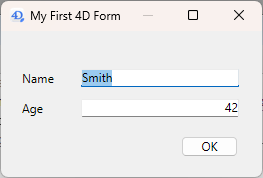
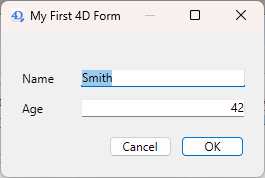
after proofreads

diff --git a/docs/commands/theme/System_Documents.md b/docs/commands/theme/System_Documents.md
@@ -41,3 +41,85 @@ slug: /commands/theme/System-Documents
 |[<!-- INCLUDE #_command_.TEXT TO DOCUMENT.Syntax -->](../../commands/text-to-document)<br/>|
 |[<!-- INCLUDE #_command_.VOLUME ATTRIBUTES.Syntax -->](../../commands/volume-attributes)<br/>|
 |[<!-- INCLUDE #_command_.VOLUME LIST.Syntax -->](../../commands/volume-list)<br/>|
+
+
+:::info Compatibility
+
+Legacy commands from this theme can usually be usefully replaced by commands of the [*File and Folder*](./File_and_Folder.md) theme and their associated [File](../../API/FileClass.md), [Folder](../../API/FolderClass.md), [ZipFile](../../API/ZipFileClass.md) and [ZipFolder](../../API/ZipFolderClass.md) classes, allowing you to handle files and folders as objects. 
+
+:::
+
+
+## Document reference number  
+
+You open a document with the [`Open document`](../../commands/open-document), [`Create document`](../../commands/create-document) and [`Append document`](../../commands/append-document) commands. Once a document is open, you can read and write characters from and to the document using commands such as [`RECEIVE PACKET`](../../commands/receive-packet) and [`SEND PACKET`](../../commands/send-packet). When you are finished with the document, you usually close it using the `CLOSE DOCUMENT` command.
+
+All open documents returned by these commands are referred to using a **document reference number** (*DocRef*). A *DocRef* uniquely identifies an open document. It is formally an expression of the **Time** type. All commands working with open documents expect *DocRef* as a parameter. If you pass an incorrect *DocRef* to one of these commands, a file manager error occurs.
+
+A document can be opened in **read/write** mode by only one process at a time. In **read-only** mode, one process can open several documents, several processes can open multiple documents, you can open the same document as many times as necessary, but you cannot open the same document in read/write mode twice at a time. The `Create document` and `Append document` commands automatically open documents in read/write mode. Only the `Open document` command lets you choose the opening mode. 
+
+:::note
+
+When it is called from a [preemptive process](../../Develop/preemptive.md), a *DocRef* reference can only be used from this preemptive process. When it is called from a cooperative process, a *DocRef* reference can be used from any other cooperative process.
+
+:::
+
+
+## The Document system variable  
+
+`Open document`, `Create document`, `Append document` and `Select document` enable you to access a document using the standard Open or Save file dialog boxes. When you access a document through a standard dialog, 4D returns the full pathname of the document in the [`Document` system variable](../../Concepts/variables.md#system-variables). This system variable has to be distinguished from the *document* parameter that appears in the parameter list of the commands.
+
+
+
+## Absolute or relative pathname  
+
+Most of the routines of this section accept document names, relative pathnames or absolute pathnames:
+
+Relative pathnames define a location with respect to a folder located on disk. Passing only a document name is considered as using a relative pathname. In 4D, a relative pathname is usually expressed with respect to the database folder, i.e. the folder containing the structure file. Relative pathnames are especially useful when deploying applications in heterogenous environments.
+Absolute pathnames define a location with respect to the root of the volume and so they do not depend on the current location of the database folder.
+To determine whether a pathname passed to a command must be interpreted as absolute or relative, 4D applies a specific algorithm on each platform.
+
+Windows  
+If the parameter contains only two characters and if the second one is a ':',
+    or if the text contains ':' and '\' as the second and third character,
+    or if the text starts with "\\",
+then the pathname is absolute.       
+
+In all other cases, the pathname is relative.
+
+Examples with the CREATE FOLDER command:
+
+ CREATE FOLDER("lundi") // relative path
+ CREATE FOLDER("\Monday") // relative path
+ CREATE FOLDER("\Monday\Tuesday") // relative path
+ CREATE FOLDER("c:") // absolute path
+ CREATE FOLDER("d:\Monday") // absolute path
+ CREATE FOLDER("\\srv-Internal\temp") // absolute path
+
+macOS  
+If the text starts with a folder separator ':',
+    or if does not contain any,
+then the path is relative.
+
+In all other cases, it is absolute.
+
+Examples with the CREATE FOLDER command:
+
+ CREATE FOLDER("Monday") // relative path
+ CREATE FOLDER("macintosh hd:") // absolute path
+ CREATE FOLDER("Monday:Tuesday") // absolute path (a volume must be called Monday)
+ CREATE FOLDER(":Monday:Tuesday") // relative path
+
+:::note
+
+See also [**Absolute and relative pathnames** in the Concepts section](../../Concepts/paths.md#absolute-and-relative-pathnames).
+
+:::
+
+## Extracting pathname contents  
+
+You can handle pathname contents using the Path to object and Object to path commands. In particular, using these commands, you can extract from a pathname:
+
+a file name,
+the parent folder path,
+the file or folder extension.

diff --git a/docs/FormEditor/forms.md b/docs/FormEditor/forms.md
@@ -77,13 +77,14 @@ In your 4D desktop applications, forms can be used in various ways, depending on
 - or called by specific features like the Label editor. 
 
 
-### Using project forms in windows
+### Using a project form in a window
 
 Forms are called using specific commands of the 4D Language. The straighforward steps to display a form on screen are:
 
-1. Call the [`Open form window`](../commands/open-form-window) command to open a window tailored for your project form.
-2. Call the [`DIALOG`](../commands/dialog) command to actually load the form in the window, ready for user interaction.
-3. (optional) Use the [`Form`](../commands/form) command from within the form context to access form data. You can also use [`CALL FORM`](../commands/call-form) to control the form execution.  
+1. Call the [`Open form window`](../commands/open-form-window) command to configure a window tailored for your project form. Note that the command itself does not display anything.
+2. Call the [`DIALOG`](../commands/dialog) command to actually load the form in the form window, ready for user interaction. [`DIALOG`](../commands/dialog) loads form data and places your code in listening mode to user events (see also ["Event listening" paragraph](../Develop/async.md#event-listening).
+3. (optional) Use the [`Form`](../commands/form) command from within the form context to access form data. 
+
 
 ::note Compatibility
 
@@ -94,17 +95,33 @@ All-in-one commands such as [`ADD RECORD`](../commands/add-record) or [`MODIFY R
 
 #### Simple example
 
-You create the following form in the [Form editor](./formEditor.md):
+You create the following basic form in the [Form editor](./formEditor.md):
 
 ![](../assets/en/FormEditor/example-form-1.png)
+
+The form is [associated with a "Person" class](./properties_FormProperties.md#form-class), defined as follow:
+
+```4d
+    //cs.Person
+property name : Text
+property age : Integer
+
+Class constructor
+  This.name:=""
+  This.age:=0
+```
 
 If you execute the following project method:
 
 ```4d
 var $mydata:={name: "Smith"; age: 42}
 var $win:=Open form window("myForm"; Movable form dialog box)
-SET WINDOW TITLE("My First 4D Form")
 DIALOG("myForm"; $mydata)  //displays dialog filled with values
+CLOSE WINDOW($win) //releases reference
+If (OK=1)  //the user clicked OK
+	var $name : Text:=Form.name //gets data
+	var $age : Integer:=Form.age
+End if 
 ```
 
 4D displays:
@@ -114,17 +131,52 @@ DIALOG("myForm"; $mydata)  //displays dialog filled with values
 
 ### Using forms as subforms
 
-A form can be embedded within another form, in which case it becomes a [subform object](../FormObjects/subform_overview.md) which follows specific rules.  
+A form can be embedded within another form, in which case it becomes a [subform object](../FormObjects/subform_overview.md) which follows specific rules. A subform is automatically used when its parent form is [displayed in a window](#using-a-project-form-in-a-window).
 
-A subform is automatically used when its parent form is [displayed in a window](#using-project-forms-in-windows).
+In the same way that you pass an object to a form with the [`DIALOG`](../commands/dialog) command, you can also pass an object to a subform area using the property list. Then, you can use it in the subform with the [`Form`](../commands/form) command. In this example, the "InvoiceAddress" object is bound to the subform:
+
+![](../assets/en/FormEditor/subform-example.png)
+
 
 
 ### Using forms to be printed
 
-You can use forms to print data, either as page or as list. To print a form in your 4D application:
+You can use forms to print data, either as page or as list. 
 
-1. Call the [`Print form`](../commands/print-form) command.
-2. (optional) Use commands of the [Printing](../commands/theme/Printing.md) theme to control printing area and page breaks.
+- To simply print some part of a form, use the [`Print form`](../commands/print-form) command. For example:
+
+```4d
+var $formData:={}
+$formData.lastname:="Smith"
+$formData.firstname:="john"
+$formData.request:="I need more COFFEE"
+var $h:=Print form("Request_var";$formData;Form detail)
+```
+
+- To print a form within a printing job to process data during printing, use [`FORM LOAD`](../commands/form-load) and [`Print object`](../commands/print-object) commands. For example:
+
+```4d
+ var $formData : Object
+ var $over : Boolean
+ var $full : Boolean
+ 
+ OPEN PRINTING JOB
+ $formData:={}
+ $formData.LBcollection:=[]
+ ... //fill the collection with data
+ 
+ FORM LOAD("GlobalForm";$formData) 
+ $over:=False
+ Repeat
+    $full:=Print object(*;"LB") // the datasource of this "LB" listbox is Form.LBcollection
+    LISTBOX GET PRINT INFORMATION(*;"LB";lk printing is over;$over)
+    If(Not($over))
+       PAGE BREAK
+    End if
+ Until($over)
+ FORM UNLOAD
+ CLOSE PRINTING JOB
+ ```
 
 
 ### Other form usages

diff --git a/docs/language-legacy/Data Entry/dialog.md b/docs/language-legacy/Data Entry/dialog.md
@@ -33,11 +33,11 @@ displayed_sidebar: docs
 
 ## Description 
 
-<!--REF #_command_.DIALOG.Summary-->The **DIALOG** command presents the *form* to the user, along with *formData* parameter(s) (optional).<!-- END REF--> 
+<!--REF #_command_.DIALOG.Summary-->The **DIALOG** command presents the *form* to the user, along with *formData* parameter(s) (optional), in the last opened window<!-- END REF-->.
 
 This command is designed to work with customized and advanced user interfaces based on forms. You can use it to display information coming from the database or other locations, or to provide data entry features. Unlike [ADD RECORD](../commands/add-record) or [MODIFY RECORD](../commands/modify-record), **DIALOG** gives you full control over the form, its contents and the navigation and validation buttons. 
 
-This command is typically called along with the [Open form window](../commands/open-form-window) to display sophisticated forms, as shown in the following example: 
+This command must be called along with the [Open form window](../commands/open-form-window) to display sophisticated forms, as shown in the following example: 
 
 ![](../../assets/en/commands/pict3541609.en.png)
 
@@ -69,7 +69,7 @@ To fill the "form data" object, you have two possibilities:
 
 :::
 
-The dialog is closed by the user either with an "accept" action (triggered by the ak accept standard action, the Enter key, or the [ACCEPT](../commands/accept) command), or with a "cancel" action (triggered by the ak cancel standard action, the Escape key, or the [CANCEL](../commands/cancel) command). An accept action will set the OK system variable to 1, while a cancel action will set OK to 0\. 
+The dialog is closed by the user either with an "accept" action (triggered by the `ak accept` standard action, the Enter key, or the [ACCEPT](../commands/accept) command), or with a "cancel" action (triggered by the `ak cancel` standard action, the Escape key, or the [CANCEL](../commands/cancel) command). An accept action will set the OK [system variable](../../Concepts/variables.md#system-variables) to 1, while a cancel action will set OK to 0. 
 
 Keep in mind that validation does not equal saving: if the dialog includes fields, you must explicitly call the [SAVE RECORD](../commands/save-record) command to save any data that has been modified. 
 
@@ -78,7 +78,7 @@ This form then reacts “normally” to user actions and is closed using a stand
 
 **Notes:** 
 
-* You can combine the use of the **DIALOG**(form;\*) syntax with the [CALL FORM](../commands/call-form) command to establish communication between the forms.
+* You can combine the use of the **DIALOG**(form;\*) syntax with the [`CALL FORM`](../commands/call-form) command to establish communication between the forms.
 * You must create a window before calling the **DIALOG**(form;\*) statement. It is not possible to use the current dialog window in the process nor the window created by default for each process. Otherwise, error -9909 is generated.
 * When the *\** parameter is used, the window is closed automatically following a standard action or a call to the [CANCEL](../commands/cancel) or [ACCEPT](../commands/accept) command. You do not have to manage the closing of the window itself.
 

diff --git a/docs/Develop/async.md b/docs/Develop/async.md
@@ -61,7 +61,7 @@ The calling process posts a message then the worker executes it. The worker can 
 
 ### Event listening
 
-In event-driven development, it is obvious that some code must be able to listen for incoming events. Events can be generated by the user interface (such as a mouse click on an object or a keyboard key pressed) or by any other interaction such as an http request or the end of another action. For example, when a form is displayed using the `DIALOG` command, user actions can trigger events that your code can process. A click on a button will trigger the code associated to the button. 
+In event-driven development, it is obvious that some code must be able to listen for incoming events. Events can be generated by the user interface (such as a mouse click on an object or a keyboard key pressed) or by any other interaction such as an http request or the end of another action. For example, when a form is displayed using the [`DIALOG`](../commands/dialog) command, user actions can trigger events that your code can process. A click on a button will trigger the code associated to the button. 
 
 In the context of asynchronous execution, the following features place your code in listening mode:
 

diff --git a/docs/language-legacy/Windows/open-form-window.md b/docs/language-legacy/Windows/open-form-window.md
@@ -173,7 +173,7 @@ These window types have the following properties:
 |Suitable for scroll bars|No|No|No|
 |Modal|Yes|Yes, but can be moved|Yes, but can be moved|
 
-**Usage**: `DIALOG`, `ADD RECORD(...;...*)` or equivalent. 
+**Usage**: [`DIALOG`](../commands/dialog), `ADD RECORD(...;...*)` or equivalent. 
 
 
 #### Palette form window {#palette-form-window} 
@@ -225,7 +225,7 @@ Sheet windows are specific to macOS. These windows are displayed above the main 
 - Since a sheet window must be drawn above a form, its display is pushed back in the [`On Load` event](../../Events/onLoad.md) of the first form loaded in the window ([see example 3](#example-3)).
 
 
-**Usage**: `DIALOG`, `ADD RECORD(...;...*)` or equivalent, under macOS (not standard under Windows).
+**Usage**: [`DIALOG`](../commands/dialog), `ADD RECORD(...;...*)` or equivalent, under macOS (not standard under Windows).
 
 #### Toolbar form window {#toolbar-form-window}
 
@@ -299,6 +299,7 @@ which displays:
 
 ## See also 
 
+[DIALOG](../commands/dialog)  
 [FORM GET PROPERTIES](../commands/form-get-properties)  
 [Open window](../commands/open-window)  
 
